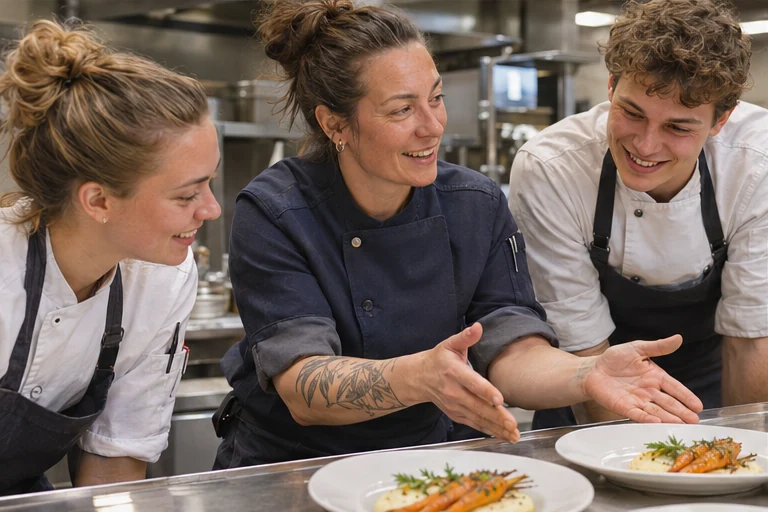
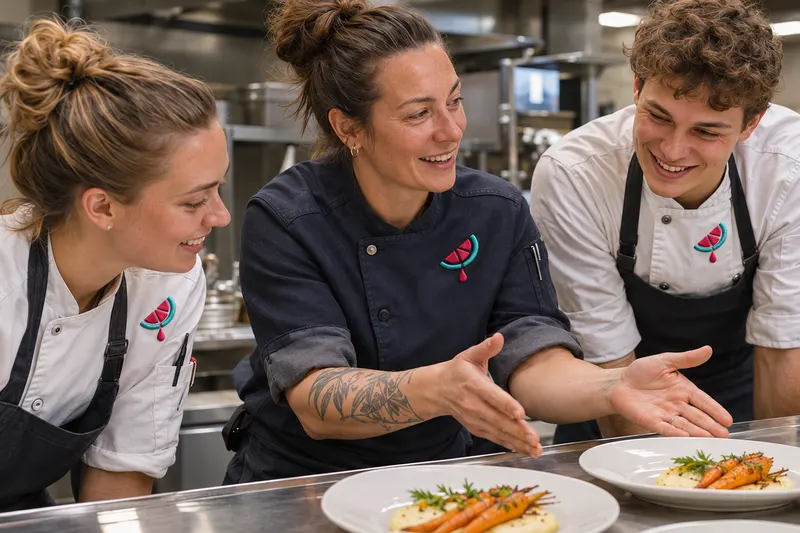
Style the glossary and stitch the citrus emblem on chef jackets

diff --git a/mistr-sveta/den-na-praxi/mistr-detail.css b/mistr-sveta/den-na-praxi/mistr-detail.css
@@ -79,3 +79,15 @@ body .bar.studio-header{background:#fff;border:0;border-bottom:1px solid #dcdedb
 .diary-tools{display:flex;align-items:center;flex-wrap:wrap;gap:12px 20px;margin:18px 0;padding:14px;background:var(--mint-wash);border-radius:9px}.diary-tools label{font-weight:650}.diary-tools input[type=search]{display:block;margin-top:4px;max-width:100%}.journal-days .journal-day[hidden]{display:none}
 
 .wordmark>span:before{background-size:contain}
+
+/* Field dictionary */
+.page-title:has(+ label #field-find){position:relative;isolation:isolate;overflow:hidden;padding:clamp(24px,4vw,60px);padding-right:34%;border-radius:28px;background:#073e40;color:#fff;margin-bottom:24px}
+.page-title:has(+ label #field-find)::after{content:"";position:absolute;z-index:-1;inset:0 0 0 68%;background:#ffdfed url("gastro-znak.svg?v=citrus13") center/auto 82% no-repeat;border-radius:50% 0 0 50%}
+.page-title:has(+ label #field-find) :is(h1,p){color:inherit}.page-title:has(+ label #field-find) .ey{color:#89ecdc}
+label:has(>#field-find){display:block;color:#124540}#field-find{border:2px solid #13796f;border-radius:16px;padding:14px 18px}
+.field-terms{display:block;columns:3;column-gap:14px;margin-block:18px}
+.field-terms>details:nth-child(n){display:inline-block;vertical-align:top;box-sizing:border-box;width:100%;break-inside:avoid;margin:0 0 12px;border:0;border-radius:16px;padding:16px 20px;background:#d0f4e9;color:#103c39}
+.field-terms>details:nth-child(3n+2){background:#ffe0e9}.field-terms>details:nth-child(3n){background:#fff0c8}
+.field-terms>details summary{font-size:1.25rem;cursor:pointer;line-height:1.25}.field-terms>details[hidden]{display:none}.field-terms a{overflow-wrap:anywhere}
+@media(max-width:850px){.field-terms{columns:2}}
+@media(max-width:600px){.field-terms{columns:1}.page-title:has(+ label #field-find) h1{font-size:clamp(2rem,9vw,3rem)}.page-title:has(+ label #field-find)::after{background-size:80% auto}}

diff --git a/mistr-sveta/den-na-praxi/index.html b/mistr-sveta/den-na-praxi/index.html
@@ -12,7 +12,7 @@
 <link rel="stylesheet" href="portfolio-mapa.css?v=ruzove-dlazdice">
 <link rel="stylesheet" href="stul.css?v=stoly1">
 <script defer src="katalog.js"></script><script defer src="skupina.js"></script><script defer src="pokrok.js?v=portfolio3"></script><script defer src="tutor.js?v=stoly1"></script><script defer src="slovnik.js?v=portfolio3"></script><script defer src="provozni-ukol.js?v=portfolio3"></script><script defer src="nacvik.js?v=mojecesta4"></script><script defer src="stul.js?v=stoly1"></script><script defer src="profil44.js"></script><script defer src="budoucnost.js?v=ruzove-dlazdice"></script><script defer src="listek.js?v=praxe-karty2"></script><script defer src="atelier.js?v=denik-filtr"></script>
-<link rel="stylesheet" href="mistr-detail.css?v=citrus13">
+<link rel="stylesheet" href="mistr-detail.css?v=slovnik-citrus">
 <link rel="icon" type="image/svg+xml" href="gastro-znak.svg?v=citrus13">
 <link rel="stylesheet" href="career-atlas.css"><script defer src="career-atlas.js"></script>
 </head>
